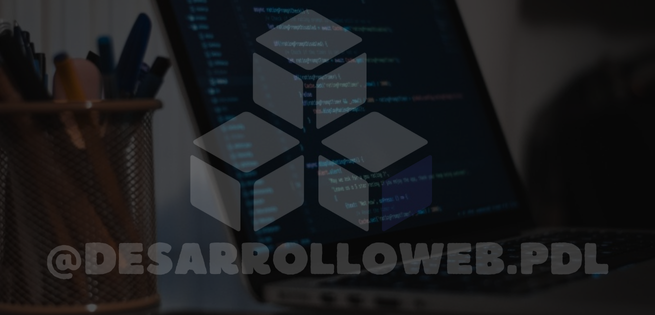
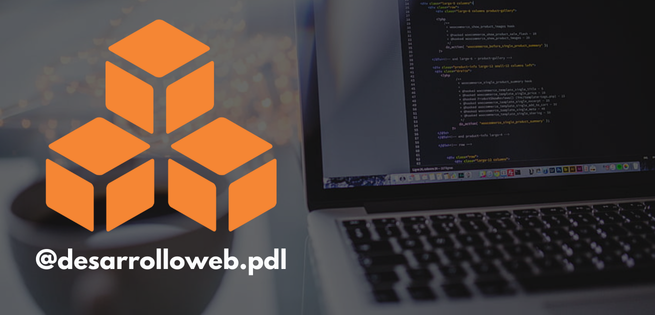
publicidad

diff --git a/index.html b/index.html
@@ -61,6 +61,11 @@
           <img src="img/publi-desarrollo-bendito2.png" alt="Banner 4">
         </a>
       </div>
+      <div class="carrusel-slide">
+        <a href="https://wa.me/+5493772633828" target="_blank">
+          <img src="img/LV5.png" alt="Banner 5">
+        </a>
+      </div>
     </div>
 
     <section class="tools-section">
